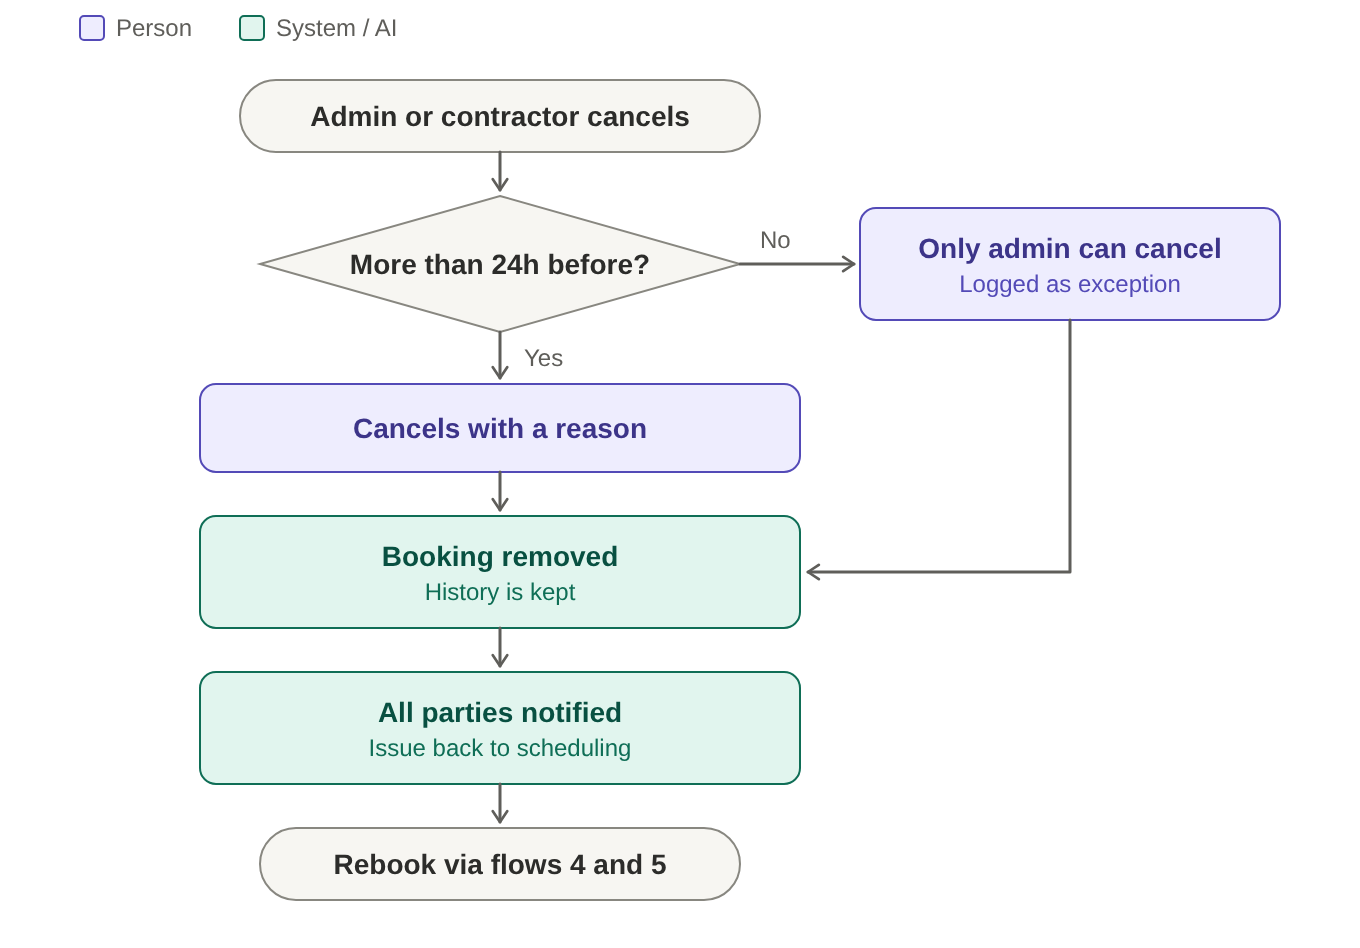
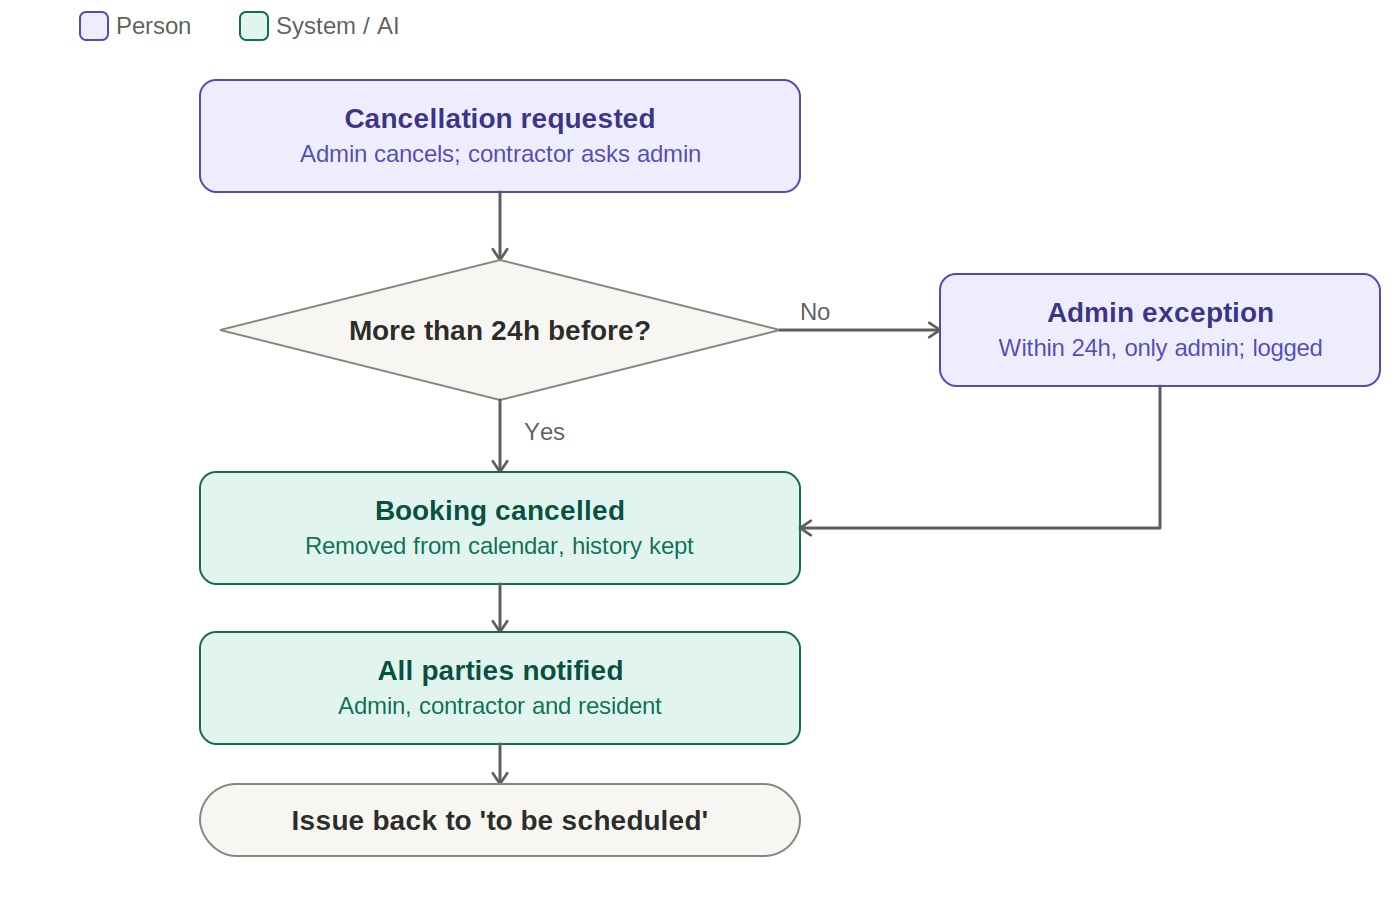
DISC-03-06: revise BMC workflows after review
- Separate accept, scheduling pending and booking confirmation (H1)
- Relabel "Decisions made" as "Proposed decisions" with owning DEC table (H2)
- Split triage confirmation from approval; add counterproposal branch (M2, M3)
- Contractors ask the admin to cancel; rework goes to the same contractor (M4)
- Name in-app notification channel per DEC-06 (M5)
- Add trigger/actors/records/outcome per workflow; status line; README row (L1, L3)
- Fix wording: booking cancelled, urgency, system rules vs AI (L2, L4, N1)
- Redraw diagrams 05, 06, 07a, 08b to match

diff --git a/documents/workflows/bmc-workflows.md b/documents/workflows/bmc-workflows.md
@@ -1,13 +1,18 @@
 # BMC — Proposed workflows (with diagrams)
 
+Status: proposal · DISC-03-06 · validation pending
+Language: English. The Portuguese version is not written yet.
 
 ## Ground rules
 
-- The AI classifies and chooses a contractor and a date, but only proposes. The administrator accepts or refuses.
+- The AI suggests a category and urgency for a report. The rules that filter and rank contractors are deterministic system rules, not AI. The system proposes a contractor and a date, but nothing is sent to a contractor without the administrator's approval.
 - The resident only reports, follows progress, confirms "this affects me too" and requests a cancellation. Residents do not approve bookings.
-- Issue status: **reported → triaged → proposal sent → booked → completed → closed**. Detours: cancelled (goes back to "to be scheduled") and reopened.
+- Issue status: **reported → triaged → approved → accepted → scheduling pending → booked → completed (awaiting validation) → closed**. Detours: booking cancelled (the issue goes back to "to be scheduled") and reopened.
+- Each workflow starts with its trigger, actors, records and outcome. Items in "Proposed decisions" at the end are not validated yet.
 
 ## 1. Condominium registration
+
+> **Trigger:** a new user registers a condominium. **Actors:** the user (becomes administrator), system. **Records:** organisation, first building, condominium space, one e-invite per fraction. **Outcome:** the administrator can invite every resident.
 
 ![Workflow 1: condominium registration](images/01-condominium-registration.png)
 
@@ -18,6 +23,8 @@
 
 ## 2. Resident joins by e-invite
 
+> **Trigger:** a resident opens an e-invite link. **Actors:** resident, system. **Precondition:** the invite is valid and unused. **Records:** resident account, link to building and fraction, invite marked as used. **Outcome:** the resident is linked to their fraction.
+
 ![Workflow 2: resident joins by e-invite](images/02-resident-joins-by-invite.png)
 
 1. The resident opens the e-invite link and creates an account (or signs in, if they already have one).
@@ -26,65 +33,80 @@
 
 ## 3. Report an issue
 
+> **Trigger:** a resident reports a problem. **Actors:** resident, system. **Records:** the report and its reference number. **Outcome:** the report is saved and the analysis starts.
+
 ![Workflow 3: report an issue](images/03-report-an-issue.png)
 
 1. The resident enters the building and the zone and describes the problem in text.
 2. The system saves the report and immediately returns a **confirmation with a reference number**.
-3. The report goes on to the AI analysis (workflow 4), without the resident having to wait.
+3. The report goes on to the analysis (workflow 4), without the resident having to wait.
 
 If the analysis fails, the report is still saved. The resident follows the status through the reference number.
 
-## 4. AI analysis and proposal (automatic)
+## 4. Analysis and proposal (automatic)
+
+> **Trigger:** a report is saved. **Actors:** system (AI for the suggestion; rules for filtering and ranking). **Records:** unverified suggestion and proposal. **Outcome:** the administrator has a proposal to review, or the issue waits for manual coordination.
 
 ![Workflow 4a: AI classification](images/04a-ai-classification.png)
 
 ![Workflow 4b: contractor matching and proposal](images/04b-contractor-matching-and-proposal.png)
 
 1. Receives the report (text, building and zone).
-2. Suggests the category and the **maintenance priority** (low, medium or high), with a plain-language reason.
+2. The AI suggests the category and the **urgency** (low, medium or high), with a plain-language reason. This is the only AI step in this workflow.
 3. If the AI fails, the report goes to the administrator as "classify by hand".
-4. Filters the compatible contractors: specialty matches the category, coverage area includes the building, and at least one free slot **this week**. Availability comes from the schedule the contractor set at registration (workflow 9), minus the bookings already accepted.
-5. Ranks the remaining ones by availability, **price**, straight-line **distance** and, as a bonus, already having another booking in the same building that day. Picks the best option and builds the **proposal** with the reason, for example "free Thursday at 10:00, 4 km, €60 per visit".
+4. The system filters the compatible contractors: specialty matches the category, coverage area includes the building, and at least one free slot **this week**. Availability comes from the schedule the contractor set at registration (workflow 9), minus the bookings already accepted.
+5. The system ranks the remaining ones by availability, **price**, straight-line **distance** and, as a bonus, already having another booking in the same building that day. It picks the best option and builds the **proposal** with the reason, for example "free Thursday at 10:00, 4 km, €60 per visit".
 6. Saves everything as an **unverified suggestion** and notifies the administrator. If nobody is free this week, the issue is marked "awaiting manual coordination".
 
-High-priority issues are notified first.
+High-urgency issues are notified first.
 
 ## 5. Administrator approval
+
+> **Trigger:** a proposal is ready. **Actors:** administrator. **Records:** triage decision (category and urgency, with reason if corrected), approval of one version, any change with author and reason. **Outcome:** an approved version goes to the contractor, or the request is refused and goes back to a new version.
 
 ![Workflow 5: admin approval](images/05-admin-approval.png)
 
 1. The administrator receives the notification with the full proposal: classification, contractor, day, time, price, distance and reason.
-2. **Accepts:** the classification is confirmed and the request goes to the contractor as a **temporary** booking.
-3. **Refuses**, with a reason: the AI proposes the next option, or the administrator picks by hand and can correct the classification. Any change is recorded with author and reason.
+2. **Confirms the classification** (triage decision). The category and urgency are confirmed or corrected, with the reason recorded. This is a separate step from approval.
+3. **Approves** one version (contractor, day, time, price). The request goes to the contractor as a **temporary** request. Approval covers that version only.
+4. **Refuses**, with a reason: the system offers the next option (workflow 4), or the administrator picks a contractor by hand. Either one is a new version and needs approval again (step 3).
 
-Nothing goes to the contractor without the administrator's acceptance.
+Nothing goes to the contractor without the administrator's approval.
 
 ## 6. Contractor response
+
+> **Trigger:** the contractor receives an approved request. **Actors:** contractor, administrator, system. **Records:** acceptance, counterproposal (new version), booking state and external reference. **Outcome:** the booking is confirmed, or it stays scheduling pending with the administrator alerted.
 
 ![Workflow 6: contractor response](images/06-contractor-response.png)
 
 1. The contractor receives the request: problem, location, day, time and price. They never see the resident's original text.
-2. **Accepts:** the booking goes from temporary to **final** and enters the calendar. The administrator and the resident are notified.
-3. **Declines:** the AI proposes the next option to the administrator (workflow 4).
-4. If the contractor does not respond within the set deadline, the administrator is alerted.
+2. **Accepts:** the booking goes to **scheduling pending**. It is not confirmed yet. The administrator is notified.
+3. **Counterproposes:** a new version (other day, time or price) goes back to the administrator for approval (workflow 5, step 3).
+4. **Declines:** the system offers the next option to the administrator (workflow 4).
+5. If the contractor does not respond within the set deadline, the administrator is alerted.
+6. **Booking confirmation:** the calendar or simulator stores the external reference, and the booking becomes **confirmed**. If the calendar does not respond, the response is invalid, or the call times out, the booking stays **scheduling pending** and the administrator is alerted. The administrator can confirm it by hand, recording the date and the source; a manual confirmation is never shown as synchronised. A retry does not create a second booking.
 
-"Confirmed" is only shown to the resident when the booking is really final.
+"Confirmed" is only shown to the resident when the booking is really confirmed.
 
 ## 7. Cancel a booking
 
-![Workflow 7a: cancel by admin or contractor](images/07a-cancel-by-admin-or-contractor.png)
+> **Trigger:** a booking must be cancelled. **Actors:** administrator (decides and cancels), contractor and resident (can only ask). **Precondition:** the booking exists. **Records:** reason, cancellation history, exception flag when applicable. **Outcome:** the booking is removed from the calendar and the issue goes back to "to be scheduled".
+
+![Workflow 7a: cancel by admin](images/07a-cancel-by-admin-or-contractor.png)
 
 ![Workflow 7b: resident cancellation request](images/07b-resident-cancellation-request.png)
 
 There is no "change": to move a date, cancel and create a new booking through workflows 4 and 5.
 
-1. The administrator or the contractor cancels the booking **up to 24h before**, with a mandatory reason.
+1. The administrator cancels the booking **up to 24h before**, with a mandatory reason. A contractor cannot cancel a booking; they ask the administrator, who decides.
 2. The resident can **request** the cancellation, and the administrator decides.
 3. The booking is removed from the calendar, but the history is kept.
 4. All parties are notified and the issue goes back to "to be scheduled".
 5. Within 24h, only the administrator can cancel, and it is recorded as an exception.
 
 ## 8. Execution and closure
+
+> **Trigger:** the booked date arrives. **Actors:** contractor, administrator. **Records:** status changes, optional cost (not shown to residents), validation and closure reason. **Outcome:** the issue is closed, or it goes back to the same contractor for rework.
 
 ![Workflow 8a: execution](images/08a-execution.png)
 
@@ -93,10 +115,12 @@ There is no "change": to move a date, cancel and create a new booking through wo
 1. On the booked date, the contractor does the work and marks it "in progress", and then "completed". The issue becomes "awaiting validation".
 2. Optional: the contractor or the administrator records the cost. Residents do not see it.
 3. The administrator validates and **closes** the issue. The resident is notified.
-4. If it is not resolved, the administrator sends it back to the contractor with a reason and the issue goes back to "to be scheduled".
-5. A closed issue can be **reopened**, with a reason. Everything stays in the history.
+4. If it is not resolved, the administrator returns it to the **same contractor** with a reason (rework). The issue goes back to "in progress".
+5. A closed issue can be **reopened** by the administrator, with a reason. Everything stays in the history.
 
 ## 9. Contractor registration
+
+> **Trigger:** a contractor signs up. **Actors:** contractor, team (validation). **Records:** company, specialties, coverage area, base address, price, weekly availability. **Outcome:** a validated contractor is in the catalogue and can receive requests.
 
 ![Workflow 9: contractor registration](images/09-contractor-registration.png)
 
@@ -109,6 +133,8 @@ There is no "change": to move a date, cancel and create a new booking through wo
 In the workflow 4 ranking, the price appears as entered (€/visit or €/h), with no conversion.
 
 ## 10. "This affects me too"
+
+> **Trigger:** several residents are affected by the same problem. **Actors:** administrator, residents. **Records:** shared summary, impact confirmations, links between reports (originals kept). **Outcome:** the administrator sees how many residents are affected when setting priority.
 
 ![Workflow 10: this affects me too](images/10-this-affects-me-too.png)
 
@@ -125,26 +151,37 @@ In the workflow 4 ranking, the price appears as entered (€/visit or €/h), wi
 | Report received | Resident (confirmation with reference number) |
 | Proposal ready | Administrator |
 | Request sent | Contractor |
-| Contractor accepts or declines | Administrator |
-| Booking final | Administrator and resident |
+| Contractor accepts (scheduling pending) | Administrator |
+| Contractor counterproposes | Administrator |
+| Booking not recorded | Administrator |
+| Booking confirmed | Administrator and resident |
 | Booking cancelled | Administrator, contractor and resident |
 | Summary published | Residents of the building |
 | Work completed | Administrator |
 | Issue closed or reopened | Resident |
 
-One channel only in the MVP (for example, email). The resident can turn notifications off.
+Notification channel: one channel in the MVP, **in-app**, as proposed in DEC-06 (not validated yet). The resident can turn notifications off. The e-invite in workflow 1 is sent by email, which is an exception to the in-app channel; see Proposed decisions.
 
-## Decisions made
+## Proposed decisions
 
-- [x] The AI analysis has its own workflow and is automatic: it classifies, filters contractors and proposes.
-- [x] The AI chooses the contractor and the date; the administrator is notified and accepts or refuses.
-- [x] Emergencies (gas, fire) stay outside the app. Urgency is only maintenance priority: low, medium or high.
-- [x] Contractor availability is set at registration (workflow 9) and read by workflow 4.
-- [x] Residents join by e-invite only (per fraction, single use, 7 days). No request-to-join in the app.
-- [x] Bookings can only be created and deleted. Changing a booking no longer exists.
-- [x] The resident can only request a cancellation; the administrator decides.
-- [x] The 24h cancellation window is fixed for now.
-- [x] Scheduling covers the current week only, using availability, existing bookings, price and straight-line distance.
-- [x] The contractor creates their own account, validated by the team, with a price per visit or per hour.
-- [x] "This affects me too" is a separate workflow (10). Notifications live in a reference table.
-- [x] Resident management (revoking invites, moving out, several administrators) is left for after the MVP.
+Nothing in this list is validated or recorded as a decision yet. Each item needs its owning DEC entry, or a new proposed DEC in [decisions-and-feedback](../planning/decisions-and-feedback.md), before it is treated as scope. Items marked "to map" have no user story yet.
+
+| Proposal in this document | Owning decision / baseline | Affected RF / US | Status |
+|---|---|---|---|
+| The AI suggests; the system proposes a contractor and a date; the administrator approves | DEC-10 (approval); vision §4.1 and US-06 describe rules | US-06, US-07 | Conflicts with the baseline wording; needs DEC entry or baseline change |
+| Triage confirmation as its own step | DEC-10 | US-02, US-03 | Agreed in DEC-10; wording updated |
+| Counterproposal creates a new version that needs approval | DEC-10; US-07 | US-07 | Agreed in DEC-10 |
+| Booking stays "scheduling pending" until confirmed; failures stay visible | DEC-10; US-08 | US-08 | Agreed in DEC-10 |
+| Contractor cannot cancel; they ask the administrator | Technical design review (#44) | to map | Needs DEC entry |
+| Rework goes back to the same contractor | Technical design review (#44) | US-09 (to map) | Needs DEC entry |
+| E-invites (single use, valid 7 days, per fraction) | New | to map | Needs DEC entry |
+| E-invite sent by email (exception to in-app notifications) | DEC-06, DEC-07 | to map | Needs DEC-06/07 review |
+| 24h cancellation window; within 24h only the administrator | New | to map | Needs DEC entry |
+| Scheduling covers the current week only | New | US-06 (to confirm) | Needs DEC entry |
+| Contractor self-registration, validated by the team | New | to map | Needs DEC entry |
+| Contractor price per visit or per hour | New | to map | Needs DEC entry |
+| Resident can request a cancellation; the administrator decides | New | to map | Needs DEC entry |
+| "Urgency" is the only priority term (low, medium, high) | Vision and backlog terminology | US-02 | Terminology aligned |
+| Emergencies (gas, fire) stay outside the app | New | to map | Needs DEC entry |
+| Resident management (revoking invites, moving out, several administrators) left after the MVP | Scope (DEC-01 style exclusion) | to map | Needs DEC entry |
+</content>

diff --git a/README.md b/README.md
@@ -49,6 +49,7 @@ File numbering matches the assignment deliverables; document 08 links to the ADR
 | [08 — Architecture Decision Records](documents/08-architecture-decision-records.md) / [ADR-001](documents/adr/ADR-001-backend-boundaries.md) | 8 | One proposed ADR | Choices and consequences accepted with evidence |
 | [09 — Security and privacy](documents/09-security-privacy.md) | 9 | Initial assessment | Policies/review; controls in implementation |
 | [10 — Walking Skeleton](documents/10-walking-skeleton.md) | 10, optional per evaluator | Not selected for Sprint 1 (DEC-11) | Plan retained for later implementation; not a Sprint 1 blocker |
+| [BMC workflows](documents/workflows/bmc-workflows.md) | Supports 4, 5 and 6 | Proposal with decision diagrams; validation pending | Validation with administrators and contractors; decisions recorded in the DEC register |
 | [Original notes](NOTAS.md) | Exploration | Ideas preserved and contextualised | Validate suggestions and provider information |
 
 ## Organisation, planning and templates
